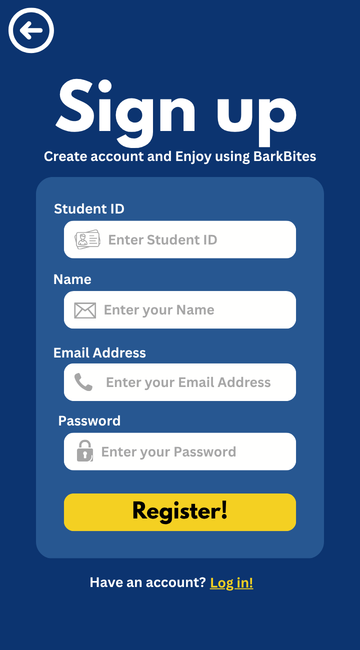
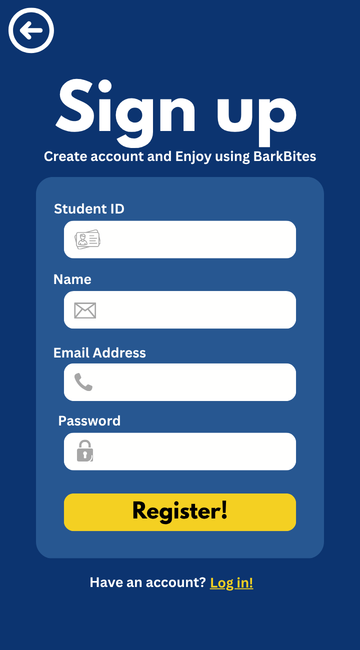
refactor: Update layout and component properties in CustomerLoginPanel and CustomerProfilePanelVisible for improved UI consistency

diff --git a/src/main/java/com/mycompany/barkbites/CustomerForms/CustomerLoginPanel.java b/src/main/java/com/mycompany/barkbites/CustomerForms/CustomerLoginPanel.java
@@ -198,65 +198,34 @@ public class CustomerLoginPanel extends javax.swing.JFrame {
         jButton2 = new javax.swing.JButton();
         jButton3 = new javax.swing.JButton();
         jTextField1 = new javax.swing.JTextField();
-        jTextField2 = new javax.swing.JPasswordField();
+        jTextField2 = new javax.swing.JTextField();
         jButton4 = new javax.swing.JButton();
         jLabel1 = new javax.swing.JLabel();
 
         setDefaultCloseOperation(javax.swing.WindowConstants.EXIT_ON_CLOSE);
         getContentPane().setLayout(new org.netbeans.lib.awtextra.AbsoluteLayout());
 
-        jButton1.setText("");
-        jButton1.setContentAreaFilled(false);
-        jButton1.setBorderPainted(false);
-        jButton1.setFocusPainted(false);
-        jButton1.setOpaque(false);
-        jButton1.addActionListener(new java.awt.event.ActionListener() {
-            public void actionPerformed(java.awt.event.ActionEvent evt) {
-                jButton1ActionPerformed(evt);
-            }
-        });
+        jButton1.setText("jButton1");
         getContentPane().add(jButton1, new org.netbeans.lib.awtextra.AbsoluteConstraints(70, 420, 230, 40));
 
-        jButton2.setText("");
-        jButton2.setContentAreaFilled(false);
-        jButton2.setBorderPainted(false);
-        jButton2.setFocusPainted(false);
-        jButton2.setOpaque(false);
-        jButton2.addActionListener(new java.awt.event.ActionListener() {
-            public void actionPerformed(java.awt.event.ActionEvent evt) {
-                jButton2ActionPerformed(evt);
-            }
-        });
+        jButton2.setText("jButton2");
         getContentPane().add(jButton2, new org.netbeans.lib.awtextra.AbsoluteConstraints(220, 500, -1, -1));
 
-        jButton3.setText("");
-        jButton3.setContentAreaFilled(false);
-        jButton3.setBorderPainted(false);
-        jButton3.setFocusPainted(false);
-        jButton3.setOpaque(false);
-        jButton3.addActionListener(new java.awt.event.ActionListener() {
-            public void actionPerformed(java.awt.event.ActionEvent evt) {
-                jButton3ActionPerformed(evt);
-            }
-        });
+        jButton3.setText("jButton3");
         getContentPane().add(jButton3, new org.netbeans.lib.awtextra.AbsoluteConstraints(10, 20, 60, 50));
 
-        jTextField1.setText("");
-        getContentPane().add(jTextField1, new org.netbeans.lib.awtextra.AbsoluteConstraints(90, 260, 200, 40));
-
-        jTextField2.setText("");
-        getContentPane().add(jTextField2, new org.netbeans.lib.awtextra.AbsoluteConstraints(90, 340, 200, 40));
-
-        jButton4.setText("");
-        jButton4.setContentAreaFilled(false);
-        jButton4.setBorderPainted(false);
-        jButton4.setFocusPainted(false);
-        jButton4.setOpaque(false);
-        jButton4.addActionListener(new java.awt.event.ActionListener() {
+        jTextField1.setText("jTextField1");
+        jTextField1.addActionListener(new java.awt.event.ActionListener() {
             public void actionPerformed(java.awt.event.ActionEvent evt) {
-                jButton4ActionPerformed(evt);
+                jTextField1ActionPerformed(evt);
             }
         });
+        getContentPane().add(jTextField1, new org.netbeans.lib.awtextra.AbsoluteConstraints(100, 260, 200, 40));
+
+        jTextField2.setText("jTextField2");
+        getContentPane().add(jTextField2, new org.netbeans.lib.awtextra.AbsoluteConstraints(100, 340, 200, 40));
+
+        jButton4.setText("jButton4");
         getContentPane().add(jButton4, new org.netbeans.lib.awtextra.AbsoluteConstraints(200, 380, 90, -1));
 
         jLabel1.setIcon(new javax.swing.ImageIcon(getClass().getResource("/com/mycompany/barkbites/CustomerDesign/CustomerLoginPanel.png"))); // NOI18N
@@ -281,6 +250,10 @@ public class CustomerLoginPanel extends javax.swing.JFrame {
         togglePasswordVisibility();
     }//GEN-LAST:event_jButton4ActionPerformed
 
+    private void jTextField1ActionPerformed(java.awt.event.ActionEvent evt) {//GEN-FIRST:event_jTextField1ActionPerformed
+        // TODO add your handling code here:
+    }//GEN-LAST:event_jTextField1ActionPerformed
+
     public static void main(String args[]) {
         java.awt.EventQueue.invokeLater(new Runnable() {
             public void run() {
@@ -296,6 +269,6 @@ public class CustomerLoginPanel extends javax.swing.JFrame {
     private javax.swing.JButton jButton4;
     private javax.swing.JLabel jLabel1;
     private javax.swing.JTextField jTextField1;
-    private javax.swing.JPasswordField jTextField2;
+    private javax.swing.JTextField jTextField2;
     // End of variables declaration//GEN-END:variables
 }

diff --git a/src/main/java/com/mycompany/barkbites/CustomerForms/CustomerProfilePanelVisible.java b/src/main/java/com/mycompany/barkbites/CustomerForms/CustomerProfilePanelVisible.java
@@ -69,7 +69,7 @@ public class CustomerProfilePanelVisible extends javax.swing.JFrame {
         getContentPane().add(jButton3, new org.netbeans.lib.awtextra.AbsoluteConstraints(190, 570, -1, 60));
 
         jButton4.setText("jButton4");
-        getContentPane().add(jButton4, new org.netbeans.lib.awtextra.AbsoluteConstraints(180, 290, 150, 55));
+        getContentPane().add(jButton4, new org.netbeans.lib.awtextra.AbsoluteConstraints(180, 320, 150, 55));
 
         jButton5.setText("jButton5");
         getContentPane().add(jButton5, new org.netbeans.lib.awtextra.AbsoluteConstraints(40, 400, 120, 130));